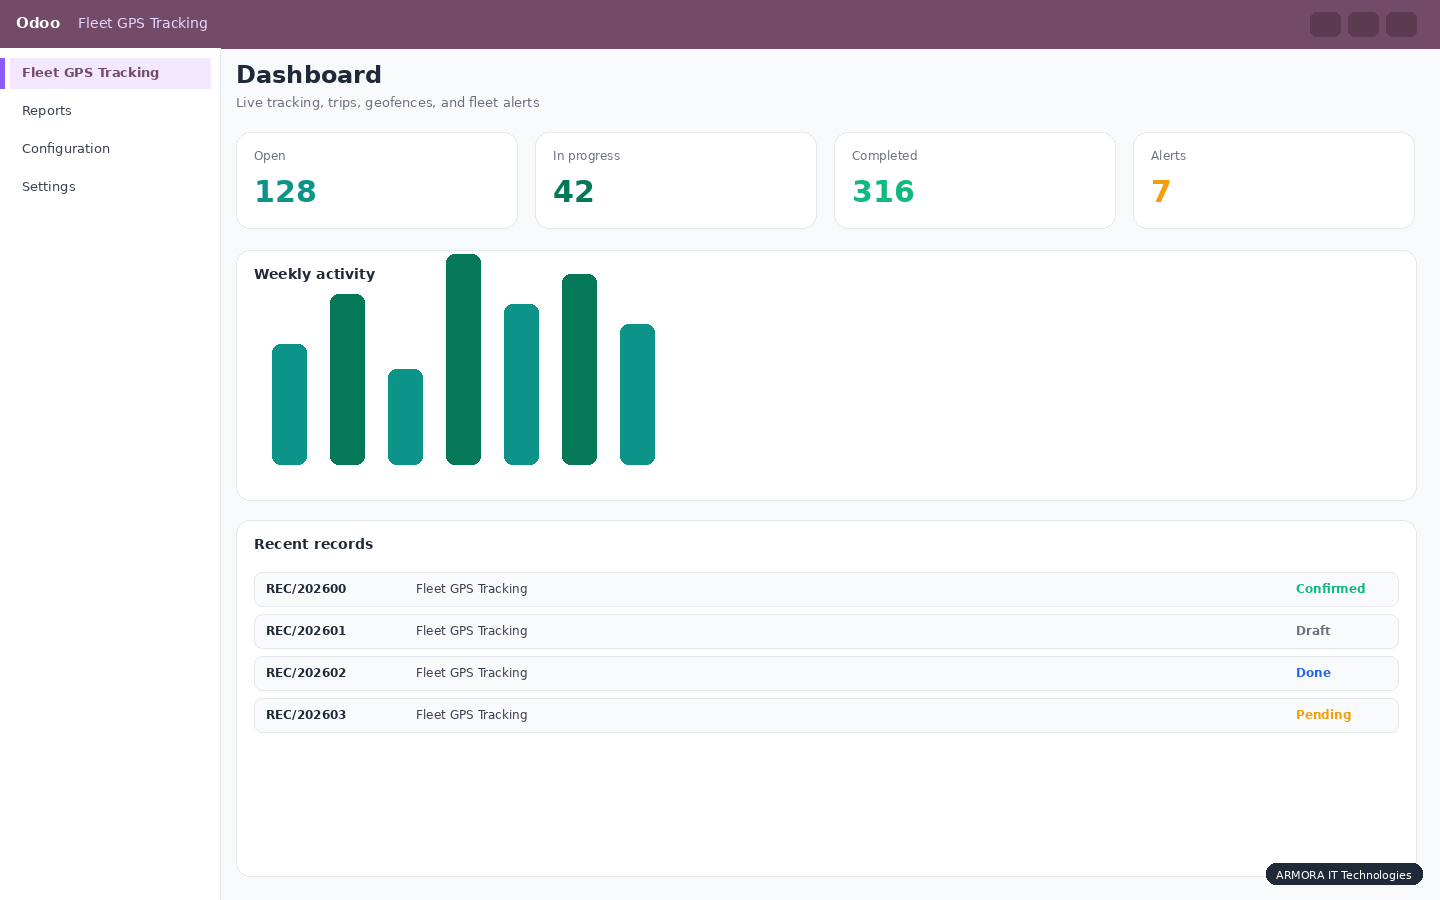
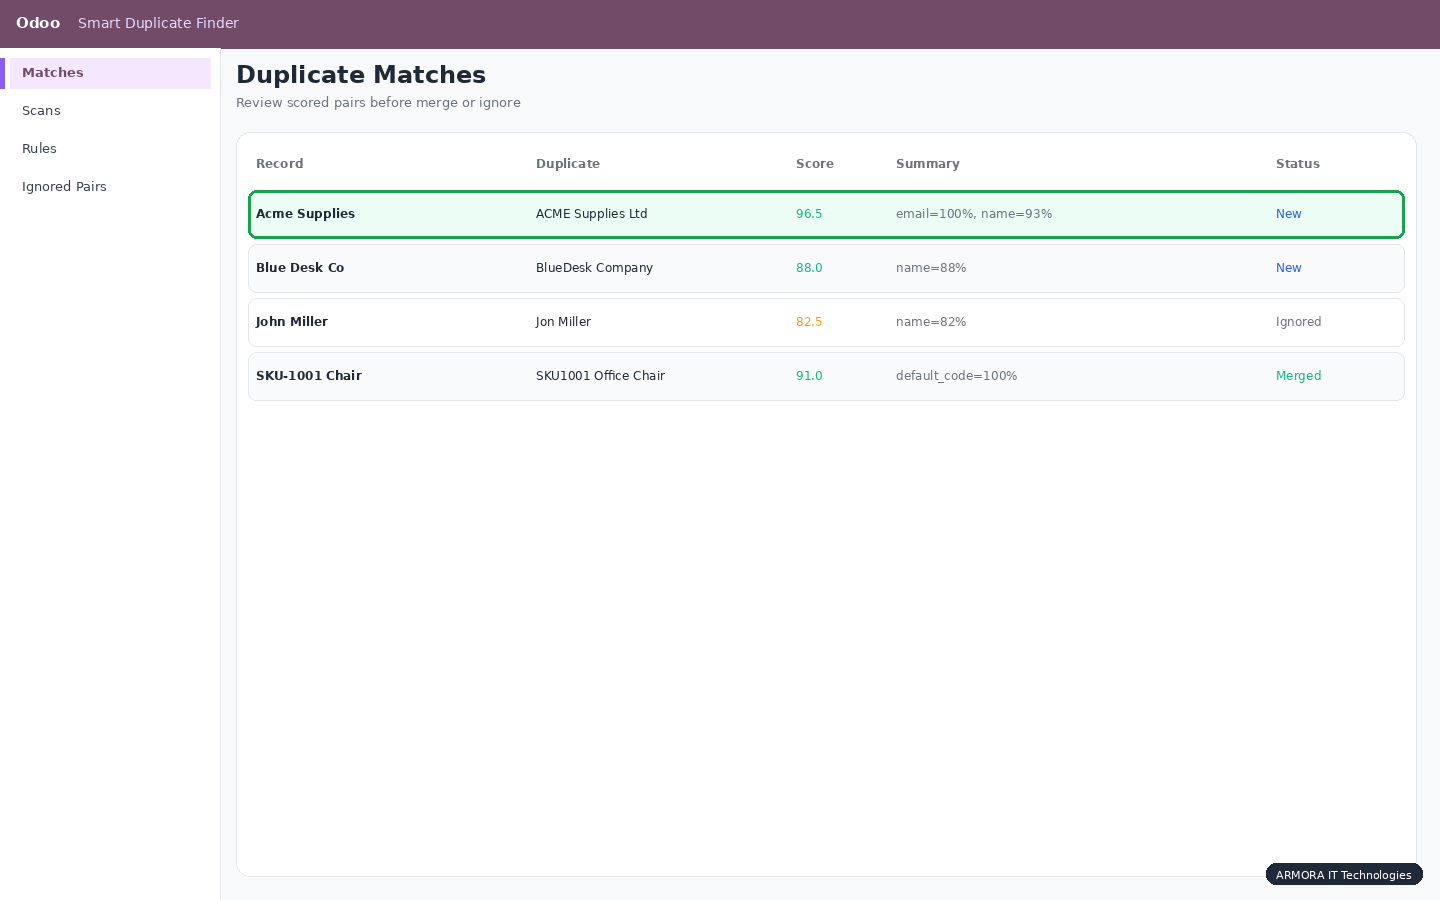
Add product_builder screenshots and GIFs for rn_duplicate_finder Apps page.

diff --git a/rn_duplicate_finder/static/description/index.html b/rn_duplicate_finder/static/description/index.html
@@ -4,7 +4,7 @@
 <meta charset="UTF-8">
 <meta name="viewport" content="width=device-width, initial-scale=1">
 <title>Smart Duplicate Finder | ARMORA IT Technologies</title>
-<meta name="description" content="Find and merge duplicate records on any model using fuzzy matching rules. Odoo 19, Odoo Community, Smart Duplicate Finder, rn_duplicate_finder, ARMORA IT Technologies">
+<meta name="description" content="Find and merge duplicate records on any Odoo model using fuzzy matching rules. Odoo 19 duplicate finder, fuzzy matching, merge contacts, deduplicate products, data quality, ARMORA">
 <style>
 :root { --module-accent: #16a34a; }
 /* ARMORA Marketplace Framework - shared Apps Store description styles */
@@ -246,44 +246,44 @@ a { color: var(--armora-primary); }
 
 <section class="armora-hero" id="top">
   <h1>Smart Duplicate Finder</h1>
-  <p class="tagline">Find and merge duplicate records on any model using fuzzy matching rules</p>
+  <p class="tagline">Find and merge duplicate records on any Odoo model using fuzzy matching rules</p>
   <div class="armora-badges">
     <span>Odoo 19 Community</span>
     <span>ARMORA IT Technologies</span>
     <span>Production Ready</span>
     <span>Multi-company</span>
-    
-    
+    <span>Dashboard</span>
+    <span>Reports</span>
   </div>
   <img class="img img-fluid loempia_app_cover shadow-sm banner" src="banner.png" alt="Smart Duplicate Finder banner">
 </section>
 
 <section class="armora-section" id="overview">
   <h2>App Overview</h2>
-  <p>Find and merge duplicate records on any model using fuzzy matching rules</p>
+  <p>Smart Duplicate Finder is a generic framework: define rules per model, run weighted fuzzy scans, review scored pairs, then merge or ignore duplicates with a guided wizard.</p>
   <ul class="armora-list-check">
     
-    <li>Streamline smart duplicate finder workflows in Odoo</li>
+    <li>Works on any Odoo model, including custom apps</li>
     
-    <li>Built for Odoo 19 Community</li>
+    <li>Weighted exact, fuzzy, and phone digit matching</li>
     
-    <li>Production-ready ARMORA architecture</li>
+    <li>Ignore pairs to keep recurring scans clean</li>
     
-    <li>Multi-company aware where applicable</li>
+    <li>Native partner merge plus safe archive for other models</li>
     
-    <li>Support from ARMORA IT Technologies</li>
+    <li>Scheduled scans for proactive data quality</li>
     
   </ul>
 </section>
 
 <section class="armora-section" id="problem">
   <h2>Business Problem</h2>
-  <p>Teams running Odoo 19 need a reliable way to manage smart duplicate finder without spreadsheets or disconnected tools.</p>
+  <p>Duplicate contacts, products, employees, and vendors pollute CRM, inventory, and HR data. Manual cleanup is slow and error-prone.</p>
 </section>
 
 <section class="armora-section" id="solution">
   <h2>Business Solution</h2>
-  <p>Find and merge duplicate records on any model using fuzzy matching rules</p>
+  <p>Smart Duplicate Finder is a generic framework: define rules per model, run weighted fuzzy scans, review scored pairs, then merge or ignore duplicates with a guided wizard.</p>
 </section>
 
 <section class="armora-section" id="features">
@@ -291,23 +291,23 @@ a { color: var(--armora-primary); }
   <div class="armora-grid-2">
     
     <div class="armora-card">
-      <h3>Odoo-native</h3>
-      <p>Smart Duplicate Finder extends standard Odoo models and views.</p>
+      <h3>Rule-based framework</h3>
+      <p>Create duplicate rules for res.partner, product.template, hr.employee, or any model.</p>
     </div>
     
     <div class="armora-card">
-      <h3>Configurable</h3>
-      <p>Settings, security groups, and menus included.</p>
+      <h3>Weighted scoring</h3>
+      <p>Combine field weights with exact, fuzzy, and phone digit match modes.</p>
     </div>
     
     <div class="armora-card">
-      <h3>Documented</h3>
-      <p>README, INSTALL, USER_GUIDE, FAQ, and SECURITY docs.</p>
+      <h3>Scan batches</h3>
+      <p>Run on-demand or scheduled scans with match threshold and record limits.</p>
     </div>
     
     <div class="armora-card">
-      <h3>Commercial support</h3>
-      <p>Contact info@armorait.com for rollout help.</p>
+      <h3>Merge wizard</h3>
+      <p>Merge partners with Odoo native merge. Archive duplicates on other models.</p>
     </div>
     
   </div>
@@ -319,22 +319,19 @@ a { color: var(--armora-primary); }
   <div class="armora-workflow">
     
     
-    <span class="step">Install module</span>
+    <span class="step">Configure rule</span>
     
     <span class="arrow">&#8594;</span>
-    <span class="step">Configure settings</span>
+    <span class="step">Run scan</span>
     
     <span class="arrow">&#8594;</span>
-    <span class="step">Assign user groups</span>
+    <span class="step">Review matches</span>
     
     <span class="arrow">&#8594;</span>
-    <span class="step">Run daily workflows</span>
+    <span class="step">Merge or ignore</span>
     
     <span class="arrow">&#8594;</span>
-    <span class="step">Review KPIs and reports</span>
-    
-    <span class="arrow">&#8594;</span>
-    <span class="step">Scale across companies</span>
+    <span class="step">Schedule auto scan</span>
     
   </div>
 </section>
@@ -347,14 +344,107 @@ a { color: var(--armora-primary); }
   <div class="armora-gallery">
     
     <figure>
-      <img src="dashboard.png" alt="Dashboard" loading="lazy">
-      <figcaption>Dashboard</figcaption>
+      <img src="overview.png" alt="Overview" loading="lazy">
+      <figcaption>Overview</figcaption>
+    </figure>
+    
+    <figure>
+      <img src="list.png" alt="Rules List" loading="lazy">
+      <figcaption>Rules List</figcaption>
+    </figure>
+    
+    <figure>
+      <img src="form.png" alt="Rule Form" loading="lazy">
+      <figcaption>Rule Form</figcaption>
+    </figure>
+    
+    <figure>
+      <img src="dashboard.png" alt="Duplicate Matches" loading="lazy">
+      <figcaption>Duplicate Matches</figcaption>
+    </figure>
+    
+    <figure>
+      <img src="wizard.png" alt="Merge Wizard" loading="lazy">
+      <figcaption>Merge Wizard</figcaption>
+    </figure>
+    
+    <figure>
+      <img src="settings.png" alt="Ignored Pairs" loading="lazy">
+      <figcaption>Ignored Pairs</figcaption>
+    </figure>
+    
+    <figure>
+      <img src="report.png" alt="Scan Results" loading="lazy">
+      <figcaption>Scan Results</figcaption>
+    </figure>
+    
+    <figure>
+      <img src="search.png" alt="Match Review" loading="lazy">
+      <figcaption>Match Review</figcaption>
+    </figure>
+    
+    <figure>
+      <img src="kanban.png" alt="All Matches" loading="lazy">
+      <figcaption>All Matches</figcaption>
+    </figure>
+    
+    <figure>
+      <img src="mobile.png" alt="Mobile View" loading="lazy">
+      <figcaption>Mobile View</figcaption>
+    </figure>
+    
+    <figure>
+      <img src="workflow.png" alt="Process Workflow" loading="lazy">
+      <figcaption>Process Workflow</figcaption>
+    </figure>
+    
+    <figure>
+      <img src="designer.png" alt="Rule Designer" loading="lazy">
+      <figcaption>Rule Designer</figcaption>
     </figure>
     
   </div>
 </section>
 
 
+
+<section class="armora-section" id="demos">
+  <h2>Product Demonstrations</h2>
+  <p>Short GIF recordings for core workflows.</p>
+  <div class="armora-gallery">
+    
+    <figure>
+      <img src="hero.gif" alt="Hero Demo" loading="lazy">
+      <figcaption>Hero Demo</figcaption>
+    </figure>
+    
+    <figure>
+      <img src="workflow.gif" alt="Workflow" loading="lazy">
+      <figcaption>Workflow</figcaption>
+    </figure>
+    
+    <figure>
+      <img src="dashboard.gif" alt="Dashboard Demo" loading="lazy">
+      <figcaption>Dashboard Demo</figcaption>
+    </figure>
+    
+    <figure>
+      <img src="settings.gif" alt="Settings" loading="lazy">
+      <figcaption>Settings</figcaption>
+    </figure>
+    
+    <figure>
+      <img src="reports.gif" alt="Reports" loading="lazy">
+      <figcaption>Reports</figcaption>
+    </figure>
+    
+    <figure>
+      <img src="mobile.gif" alt="Mobile" loading="lazy">
+      <figcaption>Mobile</figcaption>
+    </figure>
+    
+  </div>
+</section>
 
 
 <section class="armora-section armora-faq" id="faq">
@@ -507,7 +597,7 @@ a { color: var(--armora-primary); }
     <li><strong>UI:</strong> OWL 2, Bootstrap 5</li>
     <li><strong>Deployment:</strong> On-premise, Odoo.sh, and Odoo Online (where custom modules are allowed)</li>
   </ul>
-  <p><strong>SEO:</strong> Odoo 19, Odoo Community, Smart Duplicate Finder, rn_duplicate_finder, ARMORA IT Technologies</p>
+  <p><strong>SEO:</strong> Odoo 19 duplicate finder, fuzzy matching, merge contacts, deduplicate products, data quality, ARMORA</p>
   <p><strong>Version:</strong> 19.0.1.0.0</p>
 </section>
 

diff --git a/rn_duplicate_finder/__manifest__.py b/rn_duplicate_finder/__manifest__.py
@@ -3,7 +3,7 @@
     'name': 'Smart Duplicate Finder',
     'version': '19.0.1.0.0',
     'category': 'Productivity',
-    'summary': 'Find and merge duplicate records on any model using fuzzy matching rules',
+    'summary': 'Find and merge duplicate records on any Odoo model using fuzzy matching rules',
     'description': """
 ARMORA Smart Duplicate Finder for Odoo 19 Community
 ===================================================
